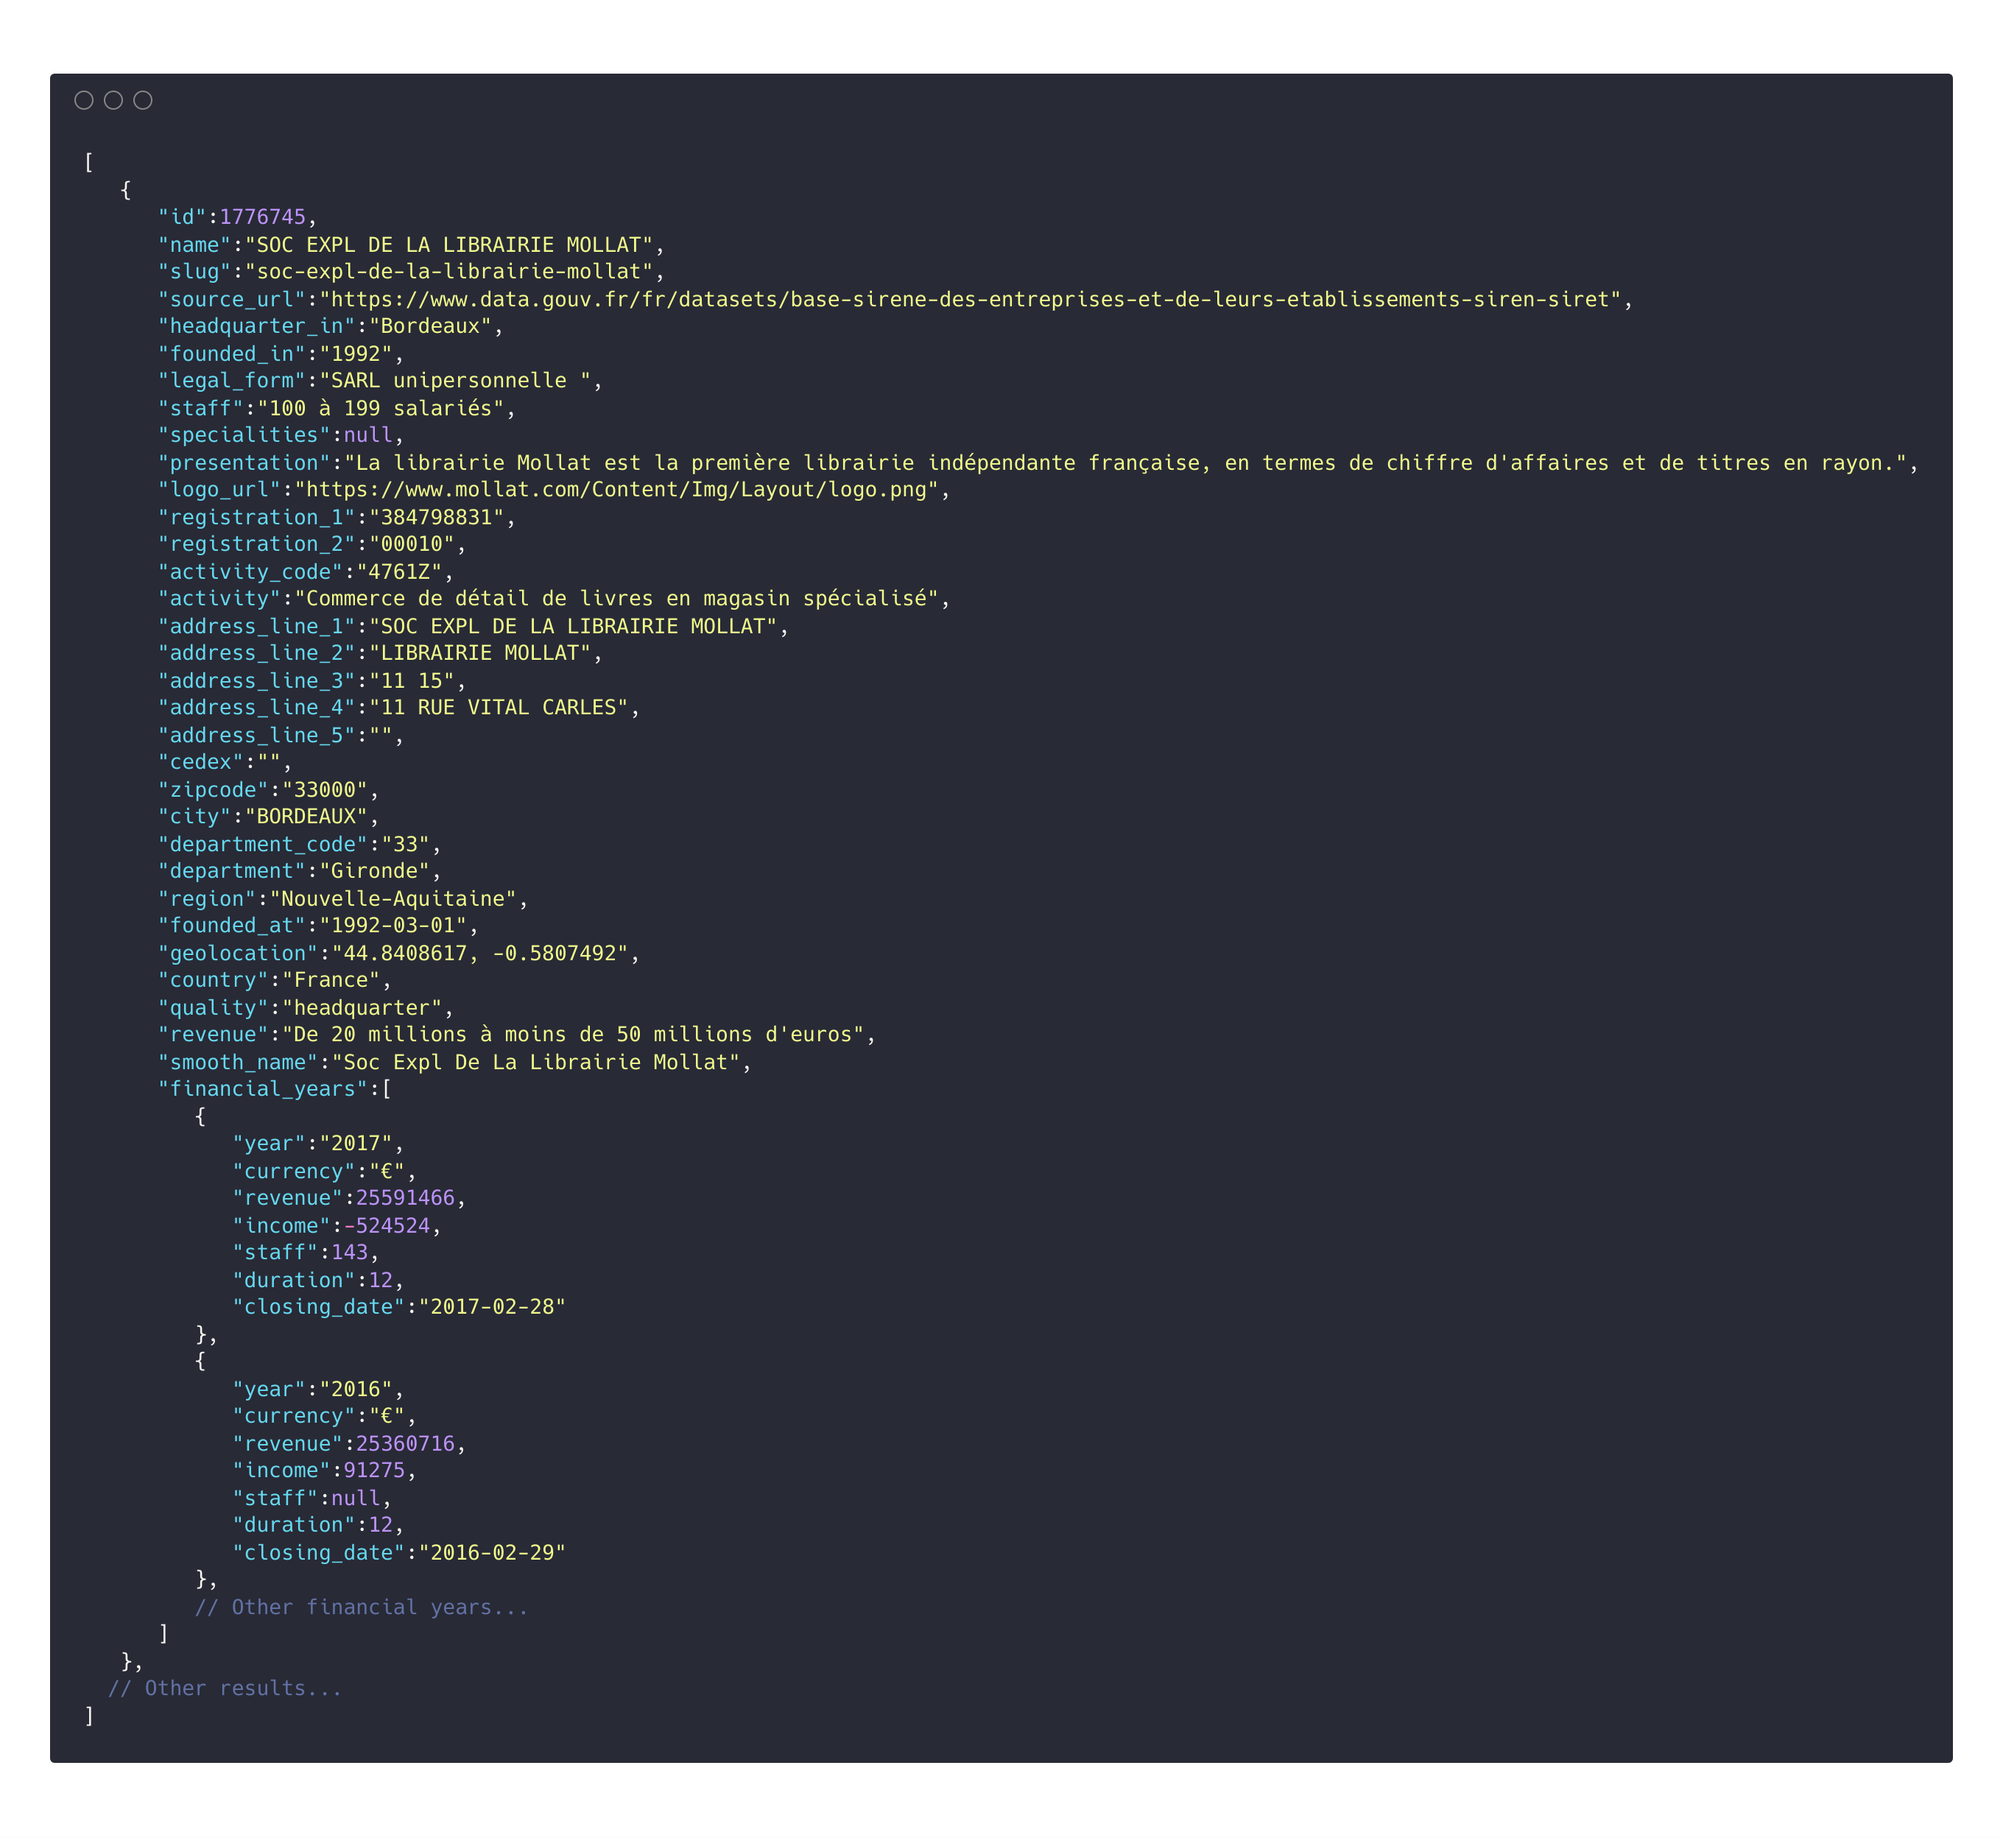
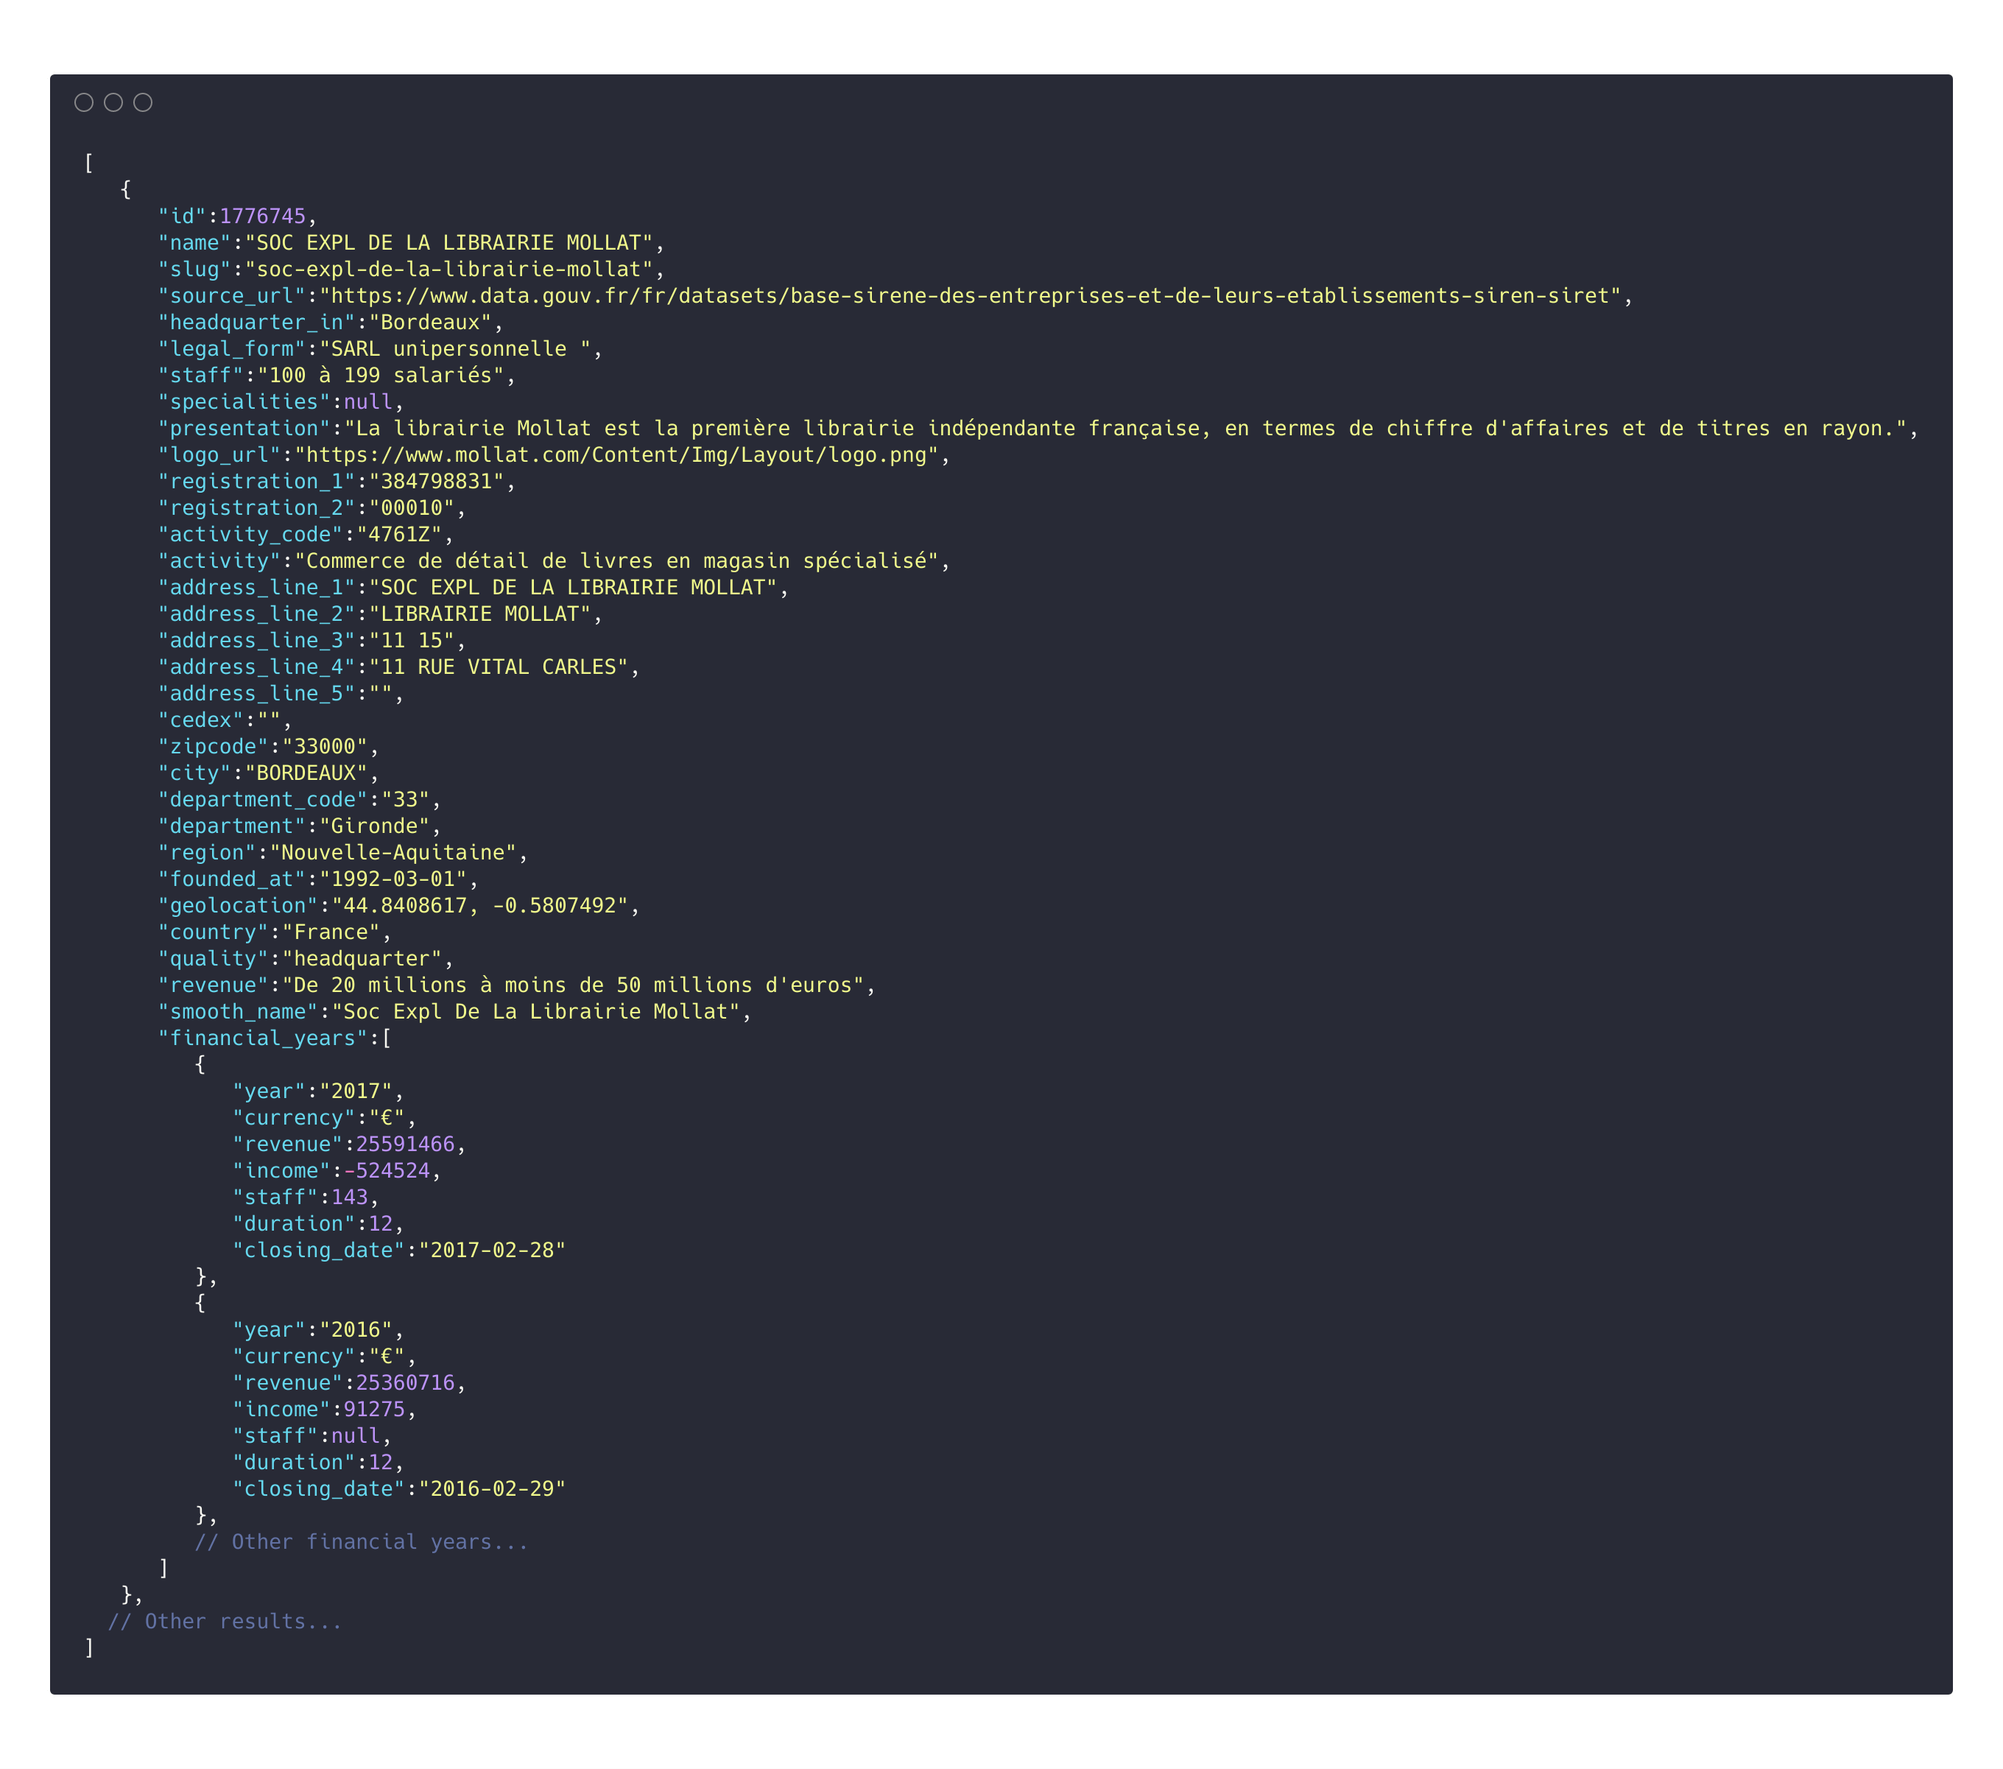
remove founded in from companies

diff --git a/spec/serializers/api/v1/company_serializer_spec.rb b/spec/serializers/api/v1/company_serializer_spec.rb
@@ -24,7 +24,6 @@ RSpec.describe Api::V1::CompanySerializer, type: :serializer do
       "slug",
       "source_url",
       "headquarter_in",
-      "founded_in",
       "legal_form",
       "staff",
       "specialities",
@@ -60,7 +59,6 @@ RSpec.describe Api::V1::CompanySerializer, type: :serializer do
   it { expect(subject["slug"]).not_to be_nil }
   it { expect(subject["source_url"]).not_to be_nil }
   it { expect(subject["headquarter_in"]).not_to be_nil }
-  it { expect(subject["founded_in"]).not_to be_nil }
   it { expect(subject["legal_form"]).not_to be_nil }
   it { expect(subject["staff"]).not_to be_nil }
   it { expect(subject["specialities"]).not_to be_nil }
@@ -101,7 +99,6 @@ RSpec.describe Api::V1::CompanySerializer, type: :serializer do
   it { expect(subject["slug"]).to eql(@company.slug) }
   it { expect(subject["source_url"]).to eql(@company.source_url) }
   it { expect(subject["headquarter_in"]).to eql(@company.headquarter_in) }
-  it { expect(subject["founded_in"]).to eql(@company.founded_in) }
   it { expect(subject["legal_form"]).to eql(@company.legal_form) }
   it { expect(subject["staff"]).to eql(@company.staff) }
   it { expect(subject["specialities"]).to eql(@company.specialities) }

diff --git a/spec/models/company_spec.rb b/spec/models/company_spec.rb
@@ -9,7 +9,6 @@ RSpec.describe Company, type: :model do
   it { should validate_uniqueness_of(:slug) }
   it { should validate_inclusion_of(:quality).in_array(Company::QUALITIES).allow_blank(true) }
   it { should callback(:set_slug).before(:validation).if(:name?).unless(:slug?) }
-  it { should callback(:set_founded_in).before(:save).if(:founded_at?).unless(:founded_in?) }
   it { should callback(:set_headquarter_in).before(:save).if(:quality? && :city?).unless(:headquarter_in?) }
   it { should callback(:set_smooth_name).before(:save).if(:name?).unless(:smooth_name?) }
 
@@ -84,14 +83,6 @@ RSpec.describe Company, type: :model do
         expect(company_1.slug).not_to eq company_3.slug
         expect(company_3.slug).to eq "virgin-1"
       end
-    end
-  end
-
-  describe "#set_founded_in" do
-    subject { create :company, founded_at: 900.days.ago, founded_in: nil }
-
-    it "sets founded in from founded at" do
-      expect(subject.founded_in).to eq(900.days.ago.year.to_s)
     end
   end
 

diff --git a/app/business/linkedin_scrapper.rb b/app/business/linkedin_scrapper.rb
@@ -74,7 +74,7 @@ class LinkedinScrapper
     add!(data, :category, read_text(".company-industries"))
     add!(data, :website, read_text(".org-about-us-company-module__website"))
     add!(data, :headquarter_in, read_text(".org-about-company-module__headquarters"))
-    add!(data, :founded_in, read_text(".org-about-company-module__founded"))
+    add!(data, :founded_in, read_text(".org-about-company-module__founded")) # TODO fix founded in -> founded at
     add!(data, :legal_form, read_text(".org-about-company-module__company-type"))
     add!(data, :staff, read_text(".org-about-company-module__company-staff-count-range"))
     add!(data, :specialities, read_text(".org-about-company-module__specialities"))

diff --git a/app/models/company.rb b/app/models/company.rb
@@ -12,7 +12,6 @@ class Company < ApplicationRecord
   validates_inclusion_of :quality, in: QUALITIES, allow_blank: true
 
   before_validation :set_slug, if: :name?, unless: :slug?
-  before_save :set_founded_in, if: :founded_at?, unless: :founded_in?
   before_save :set_headquarter_in, if: :quality? && :city?, unless: :headquarter_in?
   before_save :set_smooth_name, if: :name?, unless: :smooth_name?
 
@@ -47,10 +46,6 @@ class Company < ApplicationRecord
         counter += 1
       end
       self.slug = slug
-    end
-
-    def set_founded_in
-      self.founded_in = founded_at.year
     end
 
     def set_headquarter_in

diff --git a/db/schema.rb b/db/schema.rb
@@ -10,7 +10,7 @@
 #
 # It's strongly recommended that you check this file into your version control system.
 
-ActiveRecord::Schema.define(version: 20180211175134) do
+ActiveRecord::Schema.define(version: 20180218121824) do
 
   # These are extensions that must be enabled in order to support this database
   enable_extension "plpgsql"
@@ -22,7 +22,6 @@ ActiveRecord::Schema.define(version: 20180211175134) do
     t.integer "linkedin_id"
     t.string "source_url"
     t.string "headquarter_in"
-    t.string "founded_in"
     t.string "legal_form"
     t.string "category"
     t.string "staff"

diff --git a/app/helpers/companies_helper.rb b/app/helpers/companies_helper.rb
@@ -15,7 +15,6 @@ module CompaniesHelper
   end
 
   def founded(company)
-    return t("companies.resume.founded", year: company.founded_in) if company.founded_in.present?
     return t("companies.resume.founded", year: company.founded_at.year) if company.founded_at.present?
   end
 

diff --git a/app/serializers/api/v1/company_serializer.rb b/app/serializers/api/v1/company_serializer.rb
@@ -6,7 +6,6 @@ class Api::V1::CompanySerializer < ActiveModel::Serializer
     :slug,
     :source_url,
     :headquarter_in,
-    :founded_in,
     :legal_form,
     :staff,
     :specialities,

diff --git a/db/migrate/20180218121824_remove_founded_in_from_companies.rb b/db/migrate/20180218121824_remove_founded_in_from_companies.rb
@@ -1,0 +1,5 @@
+class RemoveFoundedInFromCompanies < ActiveRecord::Migration[5.1]
+  def change
+    remove_column :companies, :founded_in, :string
+  end
+end
